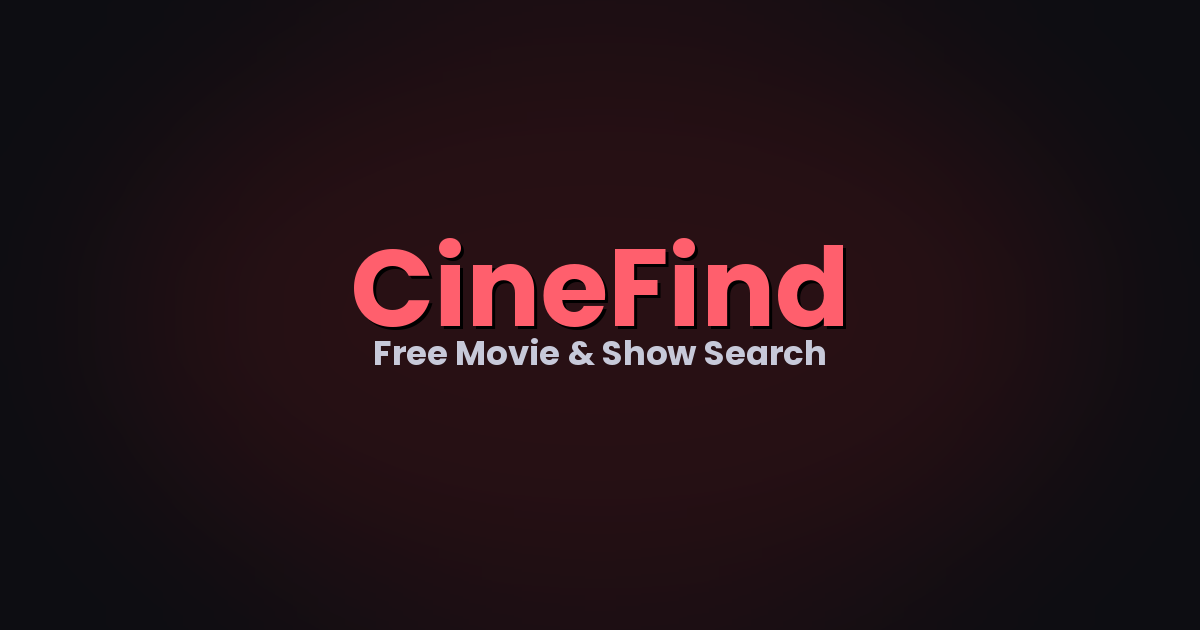
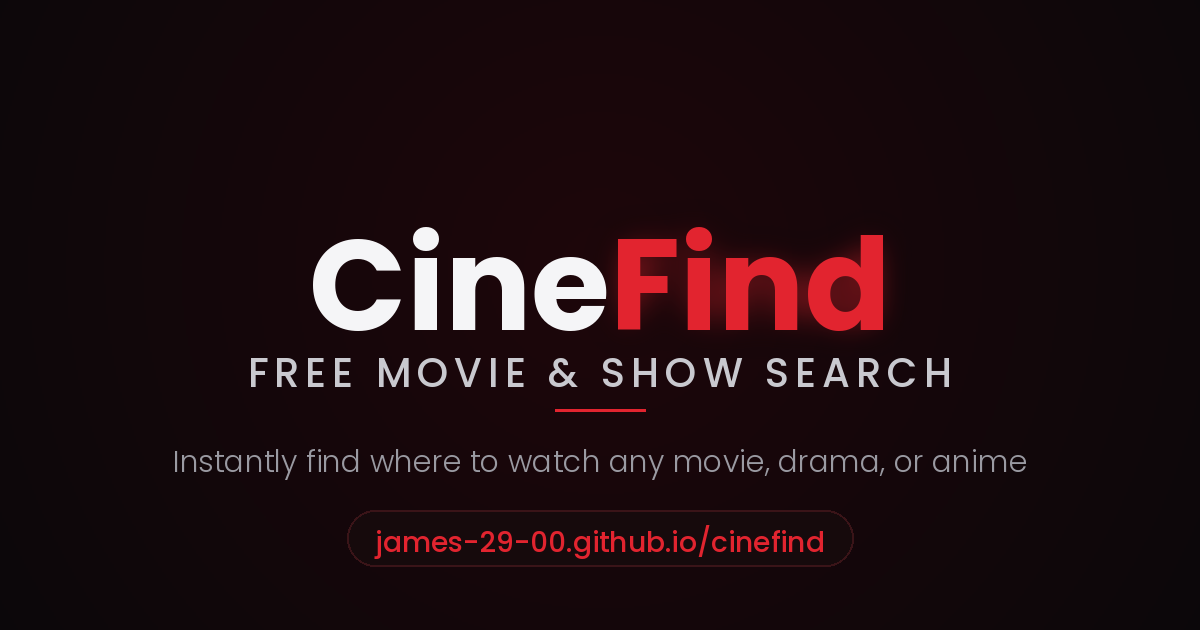
Add files via upload

Changed region(s): [[0.185, 0.3619, 0.8017, 0.6635], [0.3083, 0.8444, 0.7092, 0.9048], [0.1542, 0.7238, 0.8633, 0.754]]

diff --git a/index.html b/index.html
@@ -4,6 +4,24 @@
 <meta charset="UTF-8">
 <meta name="viewport" content="width=device-width, initial-scale=1.0">
 <title>CineFind — New Design</title>
+<meta name="description" content="Instantly find where to watch any movie, drama, or anime — for free.">
+
+<!-- Open Graph / link-preview card (Facebook, Messenger, etc.) -->
+<meta property="og:type" content="website">
+<meta property="og:site_name" content="CineFind">
+<meta property="og:title" content="CineFind — Free Movie & Show Search">
+<meta property="og:description" content="Instantly find where to watch any movie, drama, or anime — for free.">
+<meta property="og:url" content="https://james-29-00.github.io/cinefind/">
+<meta property="og:image" content="https://james-29-00.github.io/cinefind/og-image.png">
+<meta property="og:image:width" content="1200">
+<meta property="og:image:height" content="630">
+
+<!-- Twitter Card (same image, harmless to include) -->
+<meta name="twitter:card" content="summary_large_image">
+<meta name="twitter:title" content="CineFind — Free Movie & Show Search">
+<meta name="twitter:description" content="Instantly find where to watch any movie, drama, or anime — for free.">
+<meta name="twitter:image" content="https://james-29-00.github.io/cinefind/og-image.png">
+
 <link rel="preconnect" href="https://fonts.googleapis.com">
 <link rel="preconnect" href="https://fonts.gstatic.com" crossorigin>
 <link href="https://fonts.googleapis.com/css2?family=Inter:wght@400;500;600;700;800;900&family=Space+Grotesk:wght@500;700&display=swap" rel="stylesheet">
@@ -1818,9 +1836,11 @@
     aspect-ratio: 2/3;
   }
   .results-grid .result-info { padding-top: var(--space-sm); }
-  /* "You might also like" now reuses .trending-row / .trending-card /
-     .trending-poster (see above) so it renders with identical size,
-     spacing, and card design to the Home "Trending Now" section. */
+  #similar-grid.results-grid { grid-template-columns: repeat(2, 1fr); }
+  /* "You might also like" uses this same .results-grid / .result-card
+     (stacked info below poster) as search results — better legibility
+     across arbitrary poster art than the overlay style, which is now
+     reserved for the ranked Home "Trending Now" section only. */
   .similar-show-more-btn {
     display: block;
     margin: 4px auto 4px;
@@ -2023,7 +2043,7 @@
     <div class="ptr-indicator" id="ptr-indicator"><svg viewBox="0 0 24 24" fill="none" stroke="currentColor" stroke-width="2.5" stroke-linecap="round"><circle cx="12" cy="12" r="9" stroke-opacity=".25"/><path d="M21 12a9 9 0 0 0-9-9"/></svg></div>
 
     <div class="home-header">
-      <h1 class="home-title"><span style="color:var(--text);">Cine</span><span style="color:var(--accent);">Find</span></h1>
+      <h1 class="home-title" role="button" tabindex="0" aria-label="Go to Home" style="cursor:pointer;" onclick="resetSearch()" onkeydown="if(event.key==='Enter'||event.key===' '){event.preventDefault(); resetSearch();}"><span style="color:var(--text);">Cine</span><span style="color:var(--accent);">Find</span></h1>
       <div class="home-header-actions">
         <button class="theme-toggle-btn" onclick="toggleAppTheme()">
           <svg class="icon-sun" viewBox="0 0 24 24" fill="none" stroke="currentColor" stroke-width="2"><circle cx="12" cy="12" r="4"/><path d="M12 2v2M12 20v2M4.9 4.9l1.4 1.4M17.7 17.7l1.4 1.4M2 12h2M20 12h2M4.9 19.1l1.4-1.4M17.7 6.3l1.4-1.4"/></svg>
@@ -5643,7 +5663,7 @@ function renderResult(data, query) {
 
     ${data.id ? `
       <div class="section-label" style="margin-top:var(--space-lg);">You might also like</div>
-      <div class="trending-row" id="similar-grid" aria-hidden="true">
+      <div class="results-grid" id="similar-grid" aria-hidden="true">
         ${Array(6).fill('<div class="poster-shimmer" style="aspect-ratio:2/3; border-radius:var(--radius);"></div>').join('')}
       </div>` : ''}
   `;
@@ -5770,11 +5790,14 @@ function renderSimilarCards(showAll) {
   if (!grid) return;
   const visible = showAll ? similarResults : similarResults.slice(0, SIMILAR_VISIBLE_INITIAL);
   const cardsHtml = visible.map((m, i) => `
-    <div class="trending-card" role="button" tabindex="0" aria-label="${escapeAttr(m.title)}${m.year ? ', ' + m.year : ''}" onclick="selectSimilar(${i})" onkeydown="if(event.key==='Enter'||event.key===' '){event.preventDefault(); selectSimilar(${i})}" style="cursor:pointer; animation-delay:${i * 0.05}s">
-      <div class="trending-poster" style="${m.poster ? `background-image:url('${m.poster}');` : ''}">
-        ${!m.poster ? `<span class="poster-fallback" style="position:absolute; inset:0; display:flex; align-items:center; justify-content:center; font-size:28px;">${m.type === 'series' ? '📺' : '🎬'}</span>` : ''}
-        ${m.rating ? `<span class="poster-rating-badge"><svg viewBox="0 0 24 24" fill="currentColor"><polygon points="12 2 15 9 22 9.5 17 14.5 18.5 22 12 18 5.5 22 7 14.5 2 9.5 9 9"/></svg>${m.rating}</span>` : ''}
-        <span class="poster-title-overlay">${escapeAttr(m.title)}${m.year ? ` <span style="opacity:.75; font-weight:400;">· ${m.year}</span>` : ''}</span>
+    <div class="result-card" role="button" tabindex="0" aria-label="${escapeAttr(m.title)}${m.year ? ', ' + m.year : ''}" onclick="selectSimilar(${i})" onkeydown="if(event.key==='Enter'||event.key===' '){event.preventDefault(); selectSimilar(${i})}" style="cursor:pointer; animation-delay:${i * 0.05}s">
+      <div class="result-poster" style="${m.poster ? `background-image:url('${m.poster}'); background-size:cover; background-position:center;` : ''}">
+        ${!m.poster ? `<span class="poster-fallback">${m.type === 'series' ? '📺' : '🎬'}</span>` : ''}
+      </div>
+      <div class="result-info">
+        <div class="result-title">${escapeAttr(m.title)}</div>
+        <div class="result-meta">${m.year || ''}</div>
+        ${m.rating ? `<div class="result-rating-row"><span class="result-rating"><svg viewBox="0 0 24 24" fill="currentColor"><polygon points="12 2 15 9 22 9.5 17 14.5 18.5 22 12 18 5.5 22 7 14.5 2 9.5 9 9"/></svg> ${m.rating}</span></div>` : ''}
       </div>
     </div>`).join('');
   grid.innerHTML = cardsHtml;
@@ -6221,6 +6244,15 @@ async function loadSiteStatus(forceFresh) {
     siteSpeedMap = speedMap;
     siteStatusLastRun = data.lastRun ? new Date(data.lastRun).getTime() : null;
     applyStatusDots();
+    // Home's "Where to Watch" preview (buildHomeSourceRow) bakes the status
+    // text in as static HTML at render time rather than using the
+    // data-status-dot/data-status-label hooks applyStatusDots() targets, so
+    // it was stuck showing "Unknown" until something else (e.g. tapping
+    // "Show more") forced a re-render with siteStatusMap now populated.
+    // Re-render it here so status appears as soon as it's actually known.
+    if (document.getElementById('home-sources-list') && typeof renderHomeSourcesPreview === 'function') {
+      renderHomeSourcesPreview();
+    }
   } catch (err) {
     // status.json failed to load (network error, missing file, timeout).
     // Previously this left every card's status-loading skeleton shimmering
@@ -6230,6 +6262,9 @@ async function loadSiteStatus(forceFresh) {
     // hides the status label cleanly instead of showing a stuck skeleton.
     siteStatusMap = siteStatusMap || {};
     applyStatusDots();
+    if (document.getElementById('home-sources-list') && typeof renderHomeSourcesPreview === 'function') {
+      renderHomeSourcesPreview();
+    }
   }
 }
 
